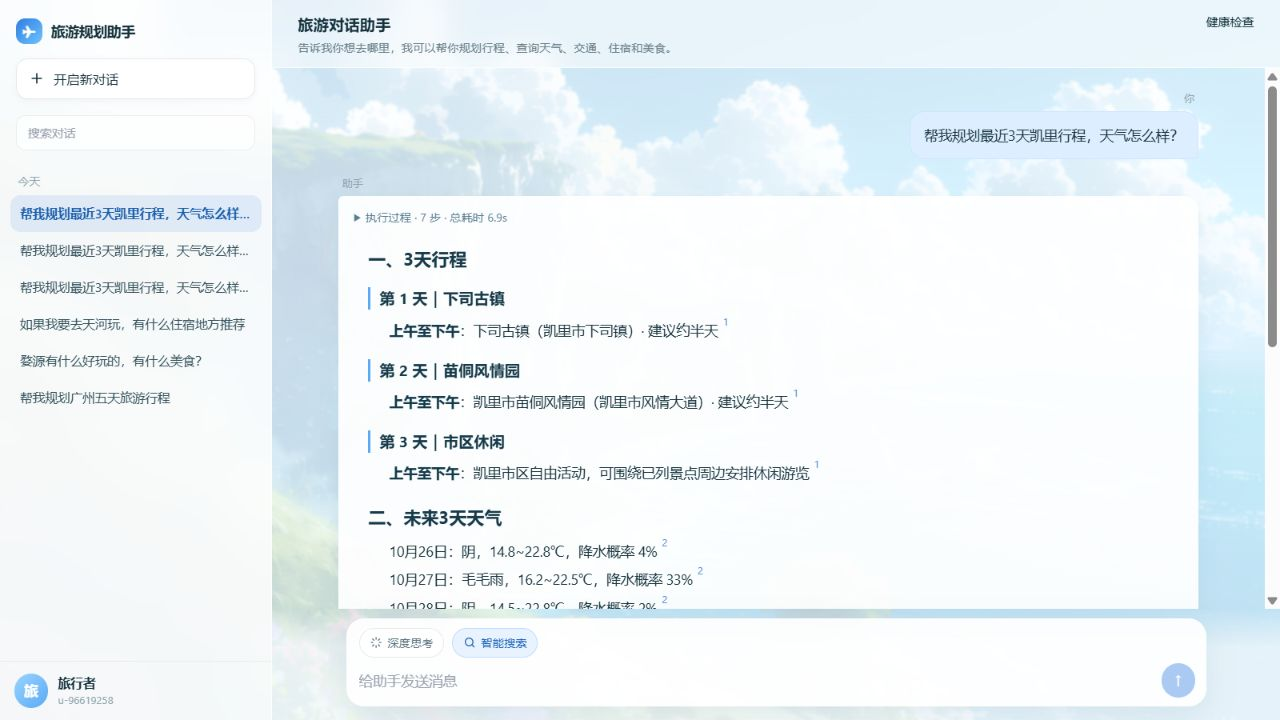
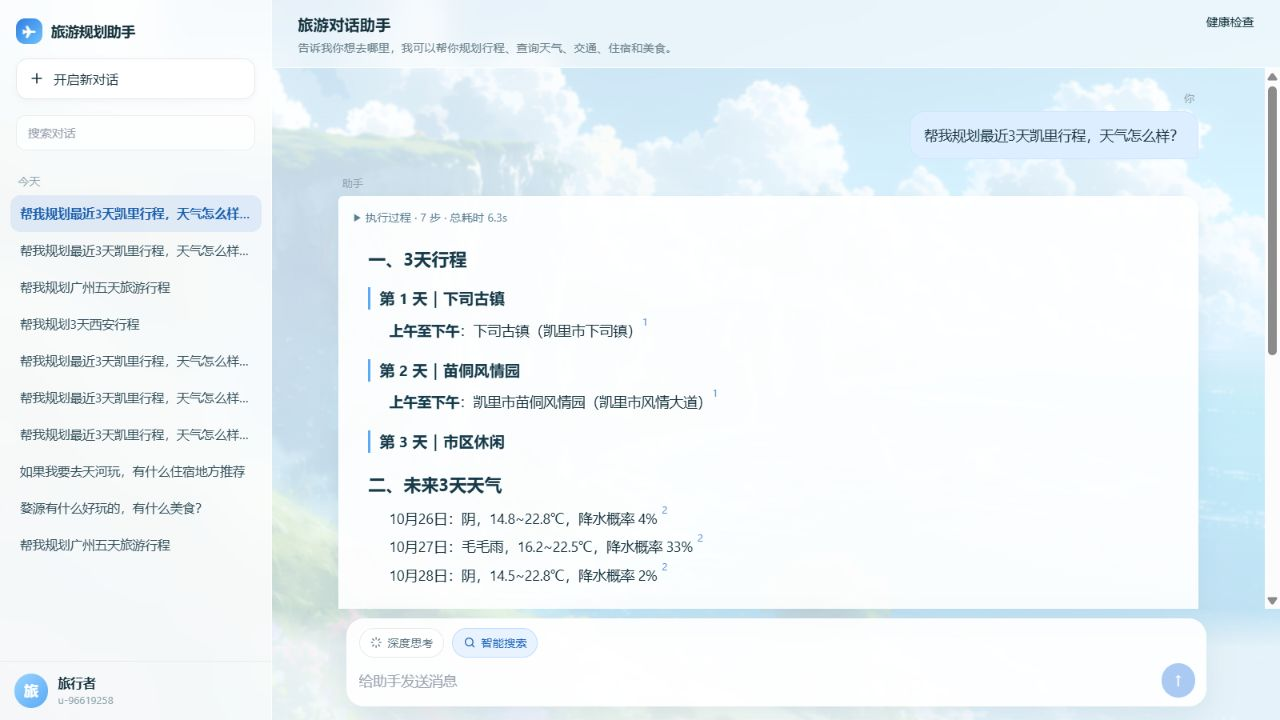
fix(agent): T40 清理合并时段与泛化活动噪音

diff --git a/app/agent/nodes.py b/app/agent/nodes.py
@@ -1622,6 +1622,9 @@ _FIELD_PLACEHOLDER_RE = re.compile(
 _PLACEHOLDER_PHRASE_RE = re.compile(r"证据(?:中)?未提供|证据未给出|需另行查询")
 _TRANSPORT_LINE_RE = re.compile(
     r"^\s*[-*]?\s*(?:\*\*)?交通衔接(?:\*\*)?\s*[：:]")
+_GENERIC_ACTIVITY_RE = re.compile(
+    r"^(?:[\u4e00-\u9fff]{2,6})?(?:市区|城区|周边)"
+    r"(?:自由活动|活动|自由安排|休闲).*$")
 _PAUSED_MARKER_RE = re.compile(r"暂停开放|暂停营业|闭馆|关闭中|临时关闭")
 
 
@@ -1663,8 +1666,12 @@ def _remove_field_placeholders(text: str) -> tuple[str, int]:
     kept = []
     removed = 0
     for line in (text or "").splitlines():
+        period = _PERIOD_LINE_RE.match(line)
+        generic_activity = bool(
+            period and _GENERIC_ACTIVITY_RE.match(period.group(2).strip()))
         if (_FIELD_PLACEHOLDER_RE.match(line)
-                or ((_PERIOD_LINE_RE.match(line) or _TRANSPORT_LINE_RE.match(line))
+                or generic_activity
+                or ((period or _TRANSPORT_LINE_RE.match(line))
                     and _PLACEHOLDER_PHRASE_RE.search(line))):
             removed += 1
             continue

diff --git a/tests/test_answer_format.py b/tests/test_answer_format.py
@@ -82,10 +82,11 @@ def test_placeholder_fields_removed_but_real_transport_kept():
         "- **晚间**：证据未提供晚间可安排的具体景点\n"
         "- **上午**：凯里市区自由活动（证据未提供更多可排入景点）\n"
         "- **上午至下午**：凯里市区自由活动（证据未提供更多可排入景点）\n"
+        "- **上午至下午**：凯里市区自由活动，可围绕已列景点周边安排休闲游览 [1]\n"
         "- 交通衔接：证据未提供各景点间交通方式与耗时"
     )
     cleaned, removed = nodes._remove_field_placeholders(text)
-    assert removed == 4
+    assert removed == 5
     assert "城墙步行全长约11.4km" in cleaned
     assert "证据未提供" not in cleaned
 

diff --git a/docs/ai-dev-log/T40-conditional-fields.md b/docs/ai-dev-log/T40-conditional-fields.md
@@ -25,6 +25,7 @@
 - 在 `prompts.py` 顶部写入长期条件字段规范，并将交通、晚间示例改为“仅证据存在时输出”。
 - 程序删除字段名后紧跟“证据未提供/证据未给出/需另行查询”的整行。
 - 合并时段 `上午至下午`、`下午至晚间`、`上午至晚间` 同样执行占位清理。
+- 删除“市区自由活动、周边休闲游览”等无具体证据的泛化填充，只保留天标题。
 - 工具结果进入证据池前删除暂停开放 POI，包括列表和坐标点。
 - compose 前的候选提示明确禁止将暂停 POI 写入任何时段。
 - 使用说明自动加入“XX 已暂停开放，未排入行程 [n]”。
